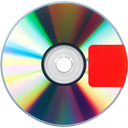
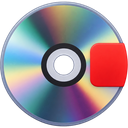
Nuevo emoji de CD y fuera el CD plateado
Claude-Session: https://claude.ai/code/session_01TRSxovmEK7UPAMUeuiAUPu

diff --git a/index.html b/index.html
@@ -5,7 +5,7 @@
 <link rel="icon" type="image/svg+xml" href="assets/icon.svg"><link rel="apple-touch-icon" href="assets/icon.svg"><script>try{var t=localStorage.getItem("cs_theme")||"light";document.documentElement.dataset.theme=t}catch(e){}</script>
 <link rel="preconnect" href="https://fonts.googleapis.com"><link rel="preconnect" href="https://fonts.gstatic.com" crossorigin>
 <link href="https://fonts.googleapis.com/css2?family=Instrument+Sans:wght@400;500;600;700&family=Montserrat:wght@700&family=Bricolage+Grotesque:opsz,wght@12..96,800&display=swap" rel="stylesheet">
-<link rel="stylesheet" href="assets/styles.css?v=1795260123">
+<link rel="stylesheet" href="assets/styles.css?v=1795260933">
 </head><body>
 <div id="intro"><div class="mark"><div class="row"><svg viewBox="0 0 59 56"><path class="c0" d="M58.4202 28C58.4202 43.4661 45.7922 56 30.2101 56C14.6279 56 2 43.4661 2 28C2 12.5339 14.6279 0 30.2101 0C45.7922 0 58.4202 12.5339 58.4202 28Z" fill="#E5007E"/><g class="c1"><path d="M7.09753 27.885C7.09753 17.9384 14.6859 11.2115 23.6644 11.2115C33.2802 11.2115 37.5667 17.3634 38.6094 21.963L31.89 24.0903C31.3686 21.9055 29.3412 18.1684 23.7224 18.1684C19.4358 18.1684 14.57 21.2156 14.57 27.9425C14.57 33.922 19.0303 37.3717 23.7803 37.3717C29.3412 37.3717 31.5424 33.692 32.1796 31.3922L39.0149 33.347C37.9722 37.7166 33.7436 44.501 23.7803 44.501C14.5121 44.386 7.09753 37.8316 7.09753 27.885Z" fill="white"/></g><g class="c2"><path d="M45.4446 44.386C44.1123 44.386 43.0117 43.9836 42.2008 43.1211C41.3319 42.2587 40.9264 41.2813 40.9264 40.1314C40.9264 38.924 41.3319 37.9466 42.2008 37.1417C43.0697 36.3368 44.1123 35.9343 45.4446 35.9343C46.7769 35.9343 47.8775 36.3368 48.7464 37.1417C49.5574 37.9466 50.0208 38.924 50.0208 40.1314C50.0208 41.3388 49.6153 42.3162 48.7464 43.1211C47.8775 43.9836 46.7769 44.386 45.4446 44.386ZM42.4904 32.6571L41.0422 11.2115H49.847L48.3989 32.6571H42.4904Z" fill="white"/></g></svg><div class="word">Ciutat <span>Studio</span></div></div><div class="bar"><i></i></div><div class="sub">Posts e historias de La Ciutat</div></div></div>
 
@@ -104,6 +104,6 @@
   <h2 id="cfmT"></h2><p id="cfmX"></p><div class="cfm-acts"><button type="button" class="btn line" id="cfmNo">Cancelar</button><button type="button" class="btn danger" id="cfmOk">Eliminar</button></div></div>
 </div>
 <div id="toast" role="status"><i>✓</i><span></span></div>
-<script src="assets/app.js?v=1795260123"></script>
-<script src="assets/i18n.js?v=1795260123"></script>
-<script src="assets/team.js?v=1795260123"></script><script src="assets/log.js?v=1795260123"></script></body></html>
+<script src="assets/app.js?v=1795260933"></script>
+<script src="assets/i18n.js?v=1795260933"></script>
+<script src="assets/team.js?v=1795260933"></script><script src="assets/log.js?v=1795260933"></script></body></html>

diff --git a/assets/team.js b/assets/team.js
@@ -56,8 +56,8 @@ function closeWho(pick){const w=$("who");clearTimeout(whoT);w.classList.remove("
 $("whoGrid").onclick=e=>{const b=e.target.closest(".pf");if(!b)return;if(b.id=="pfAdd")return openEditor(null);const p=PROFILES.find(x=>x.id==b.dataset.id);if(!p)return;
  if(editing)return openEditor(p);ME=p.id;try{localStorage.setItem(ME_KEY,ME)}catch{}refreshMe();closeWho(b);renderFeed();refreshMark()};
 $("whoEdit").onclick=()=>{editing=!editing;renderWho()};$("meBtn").onclick=openWho;
-const EMOS=["img:cd","img:cd-rojo","img:diamante","img:paloma","img:ala","img:oso","img:cruz","✨","🔥","⚡","🌊","🌸","🎧","📸","☕","🚀","🦊"];let peEmo="";
-const emoHTML=e=>e&&e.startsWith("img:")?`<img class="emi" src="assets/emoji/${e.slice(4)}.png" alt="" draggable="false">`:esc(e||"");
+const EMOS=["img:cd-rojo","img:diamante","img:paloma","img:ala","img:oso","img:cruz","✨","🔥","⚡","🌊","🌸","🎧","📸","☕","🚀","🦊","🌙"];let peEmo="";
+const emoHTML=e=>(e=e=="img:cd"?"img:cd-rojo":e)&&e.startsWith("img:")?`<img class="emi" src="assets/emoji/${e.slice(4)}.png" alt="" draggable="false">`:esc(e||"");
 function renderEmo(){$("peEmo").innerHTML=`<button type="button" class="emc none${!peEmo?" on":""}" data-e="" title="${tr("Sin emoji")}" aria-label="${tr("Sin emoji")}">—</button>`+EMOS.map(e=>{const own=PROFILES.find(x=>x.id!=peId&&x.emoji==e);return`<button type="button" class="emc${e==peEmo?" on":""}" data-e="${e}" ${own?`disabled title="${esc(own.name)}"`:""}>${emoHTML(e)}${own?`<span class="own">${esc(ini(own.name))}</span>`:""}</button>`}).join("")}
 $("peEmo").onclick=e=>{const b=e.target.closest(".emc");if(!b||b.disabled)return;peEmo=b.dataset.e;renderEmo();peAv()};
 function openEditor(p){peId=p?p.id:null;peEmo=p&&p.emoji||"";renderEmo();peLang=p?p.lang:LANG;peColor=p?p.color:null;$("peName").value=p?p.name:"";$("peT").textContent=tr(p?"Editar perfil":"Nuevo perfil");
